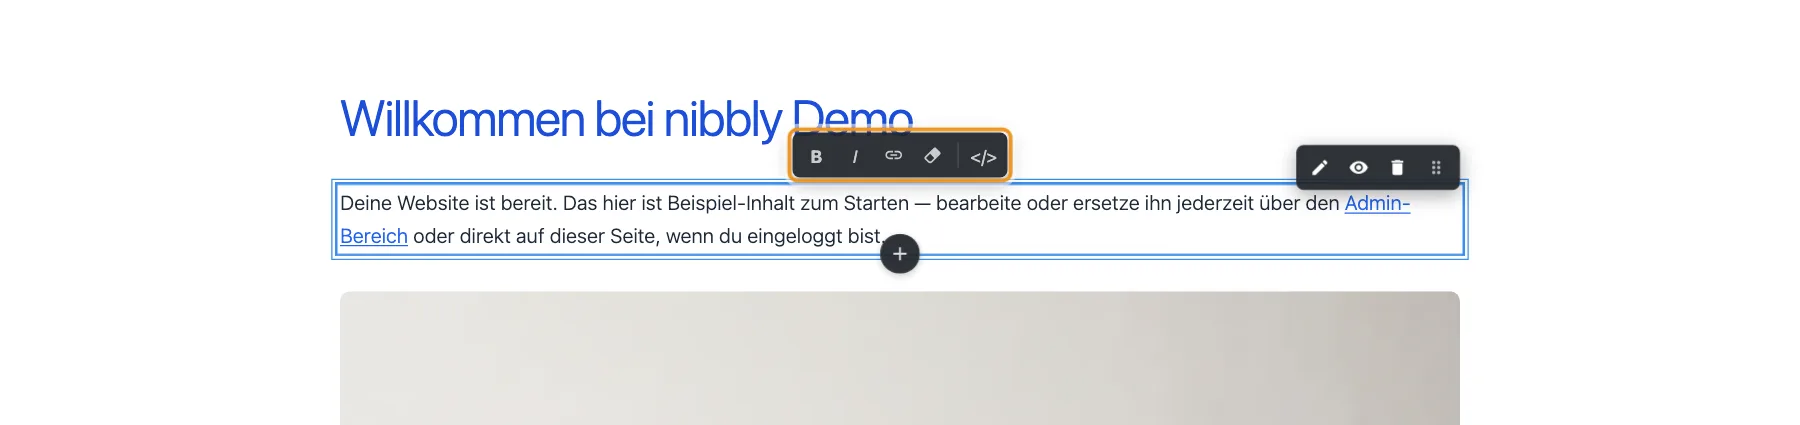
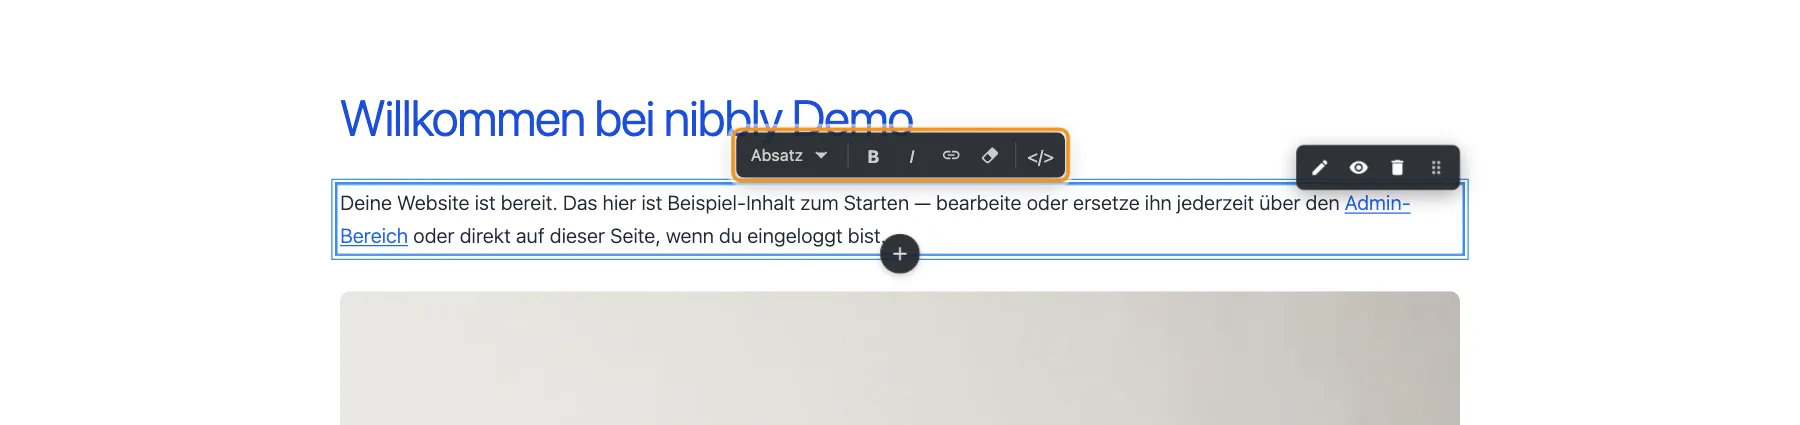
feat(editor): block format menu in the floating text toolbar
The toolbar of an inline-edited HTML field starts with a format menu
(Paragraph, Heading 2-4, Quote) that shows the element at the caret and
switches it via formatBlock. It is a custom dark menu because a native
<select> is painted by the browser and ignores the toolbar's colours.

Handbook chapter and toolbar screenshot updated in both languages.

Changed region(s): [[0.4044, 0.2753, 0.6222, 0.4588]]

diff --git a/js/inline-editor.js b/js/inline-editor.js
@@ -3643,7 +3643,11 @@
 
         const toolbar = document.createElement('div');
         toolbar.className = 'floating-toolbar';
+        const formats = [['p', t('format_paragraph')], ['h2', t('format_heading') + ' 2'], ['h3', t('format_heading') + ' 3'], ['h4', t('format_heading') + ' 4'], ['blockquote', t('format_quote')]];
         toolbar.innerHTML = `
+            <button type="button" class="floating-toolbar-format" data-action="format-menu" aria-haspopup="menu" aria-expanded="false" data-editor-tooltip="${escHtml(t('format_block'))}" aria-label="${escHtml(t('format_block'))}"><span class="floating-toolbar-format-label">${escHtml(formats[0][1])}</span><svg viewBox="0 0 24 24" width="12" height="12" fill="none" stroke="currentColor" stroke-width="2" stroke-linecap="round" stroke-linejoin="round" aria-hidden="true"><path d="M6 9l6 6 6-6"/></svg></button>
+            <div class="floating-toolbar-menu" role="menu" hidden>${formats.map(([v, l]) => `<button type="button" role="menuitemradio" aria-checked="false" data-format="${v}"><${v === 'blockquote' ? 'em' : v}>${escHtml(l)}</${v === 'blockquote' ? 'em' : v}></button>`).join('')}</div>
+            <span class="floating-toolbar-separator"></span>
             <button type="button" data-command="bold" data-editor-tooltip="${escHtml(t('bold'))} (Ctrl+B)" aria-label="${escHtml(t('bold'))} (Ctrl+B)"><b>B</b></button>
             <button type="button" data-command="italic" data-editor-tooltip="${escHtml(t('italic'))} (Ctrl+I)" aria-label="${escHtml(t('italic'))} (Ctrl+I)"><i>I</i></button>
             <button type="button" data-action="link" data-editor-tooltip="${escHtml(t('insert_link'))}" aria-label="${escHtml(t('insert_link'))}"><svg viewBox="0 0 24 24" fill="currentColor" width="16" height="16"><path d="M3.9 12c0-1.71 1.39-3.1 3.1-3.1h4V7H7c-2.76 0-5 2.24-5 5s2.24 5 5 5h4v-1.9H7c-1.71 0-3.1-1.39-3.1-3.1zM8 13h8v-2H8v2zm9-6h-4v1.9h4c1.71 0 3.1 1.39 3.1 3.1s-1.39 3.1-3.1 3.1h-4V17h4c2.76 0 5-2.24 5-5s-2.24-5-5-5z"/></svg></button>
@@ -3656,6 +3660,53 @@
         toolbar.addEventListener('mousedown', (e) => {
             e.preventDefault();
         });
+
+        // Block format (paragraph, heading, quote) of the element at the caret: own menu,
+        // because a native <select> is painted by the browser and ignores the dark toolbar
+        const formatButton = toolbar.querySelector('.floating-toolbar-format');
+        const formatLabel = toolbar.querySelector('.floating-toolbar-format-label');
+        const formatMenu = toolbar.querySelector('.floating-toolbar-menu');
+        let currentFormat = 'p';
+        const setFormatState = (value) => {
+            currentFormat = formats.some(([v]) => v === value) ? value : 'p';
+            formatLabel.textContent = formats.find(([v]) => v === currentFormat)[1];
+            formatMenu.querySelectorAll('[data-format]').forEach(item => item.setAttribute('aria-checked', String(item.dataset.format === currentFormat)));
+        };
+        const closeFormatMenu = () => {
+            formatMenu.hidden = true;
+            formatButton.setAttribute('aria-expanded', 'false');
+        };
+        document.addEventListener('selectionchange', () => {
+            if (!activeHtmlField) return;
+            const sel = window.getSelection();
+            if (!sel.rangeCount || !activeHtmlField.contains(sel.anchorNode)) return;
+            setFormatState(String(document.queryCommandValue('formatBlock') || '').replace(/[<>]/g, '').toLowerCase());
+        });
+        formatButton.addEventListener('click', (e) => {
+            e.preventDefault();
+            e.stopPropagation();
+            formatMenu.hidden = !formatMenu.hidden;
+            formatButton.setAttribute('aria-expanded', String(!formatMenu.hidden));
+        });
+        formatMenu.addEventListener('click', (e) => {
+            const item = e.target.closest('[data-format]');
+            if (!item) return;
+            e.preventDefault();
+            e.stopPropagation();
+            closeFormatMenu();
+            if (!activeHtmlField) return;
+            activeHtmlField.focus();
+            document.execCommand('formatBlock', false, '<' + item.dataset.format + '>');
+            setFormatState(item.dataset.format);
+            activeHtmlField.dispatchEvent(new Event('input', { bubbles: true }));
+        });
+        document.addEventListener('click', (e) => {
+            if (!formatMenu.hidden && !toolbar.contains(e.target)) closeFormatMenu();
+        }, true);
+        document.addEventListener('keydown', (e) => {
+            if (e.key === 'Escape' && !formatMenu.hidden) { e.stopPropagation(); closeFormatMenu(); }
+        }, true);
+        toolbar._closeFormatMenu = closeFormatMenu;
 
         // Handle button clicks
         toolbar.addEventListener('click', (e) => {
@@ -3748,6 +3799,7 @@
     function hideFloatingToolbar() {
         if (floatingToolbar) {
             floatingToolbar.style.display = 'none';
+            if (floatingToolbar._closeFormatMenu) floatingToolbar._closeFormatMenu();
         }
         if (activeHtmlField && activeHtmlField._scrollHandler) {
             window.removeEventListener('scroll', activeHtmlField._scrollHandler, true);

diff --git a/css/inline-editor.css b/css/inline-editor.css
@@ -1209,6 +1209,10 @@ dialog.editor-mode-hint .editor-btn:focus-visible { outline: 2px solid var(--edi
     }
 }
 
+.floating-toolbar [hidden] {
+    display: none !important;
+}
+
 .floating-toolbar button {
     position: relative;
     display: flex;
@@ -1290,6 +1294,64 @@ dialog.editor-mode-hint .editor-btn:focus-visible { outline: 2px solid var(--edi
     background: rgba(255, 255, 255, 0.15);
     margin: 0 4px;
 }
+
+.floating-toolbar button.floating-toolbar-format {
+    width: auto;
+    gap: 6px;
+    padding: 0 8px;
+    font-size: 13px;
+    white-space: nowrap;
+}
+
+.floating-toolbar-format[aria-expanded="true"] {
+    background: rgba(255, 255, 255, 0.15);
+    color: #fff;
+}
+
+.floating-toolbar-menu {
+    position: absolute;
+    top: calc(100% + 4px);
+    left: 0;
+    display: flex;
+    flex-direction: column;
+    min-width: 170px;
+    padding: 4px;
+    background: rgba(35, 40, 45, 0.97);
+    border-radius: 6px;
+    box-shadow: 0 4px 16px rgba(0, 0, 0, 0.35);
+}
+
+.floating-toolbar .floating-toolbar-menu button {
+    width: 100%;
+    height: auto;
+    justify-content: flex-start;
+    padding: 6px 10px;
+    text-align: left;
+    color: #ddd;
+}
+
+.floating-toolbar-menu button[aria-checked="true"] {
+    color: #fff;
+    background: rgba(255, 255, 255, 0.12);
+}
+
+.floating-toolbar-menu button h2,
+.floating-toolbar-menu button h3,
+.floating-toolbar-menu button h4,
+.floating-toolbar-menu button p,
+.floating-toolbar-menu button em {
+    margin: 0;
+    color: inherit;
+    font-family: inherit;
+    line-height: 1.2;
+}
+
+.floating-toolbar-menu button h2 { font-size: 17px; font-weight: 700; }
+.floating-toolbar-menu button h3 { font-size: 15px; font-weight: 700; }
+.floating-toolbar-menu button h4 { font-size: 14px; font-weight: 700; }
+.floating-toolbar-menu button p { font-size: 13px; }
+.floating-toolbar-menu button em { font-size: 13px; }
+
 
 /* ============================================================
    WYSIWYG TOOLBAR & EDITOR

diff --git a/includes/handbook/chapters/texts.de.php b/includes/handbook/chapters/texts.de.php
@@ -6,8 +6,9 @@
     <li><b>Fließtext</b> wie Absätze. Sobald du hineinklickst, erscheint darüber eine kleine Werkzeugleiste.</li>
   </ul>
 </div>
-<?php echo $hb->shot('text-toolbar.webp', 'Ein Absatz im Bearbeitungsmodus mit der Werkzeugleiste für Formatierung darüber', '<b>Werkzeugleiste für Fließtext.</b> Fett, Kursiv, Link, Formatierung entfernen und die HTML-Ansicht.'); ?>
+<?php echo $hb->shot('text-toolbar.webp', 'Ein Absatz im Bearbeitungsmodus mit der Werkzeugleiste für Formatierung darüber', '<b>Werkzeugleiste für Fließtext.</b> Absatzformat, Fett, Kursiv, Link, Formatierung entfernen und die HTML-Ansicht.'); ?>
 <dl class="hb-fields">
+  <div><dt>Absatz ▾</dt><dd>Das Absatzformat des Elements, in dem der Cursor steht: Absatz, Überschrift 2 bis 4 oder Zitat. Ein Klick öffnet die Auswahl, ein zweiter wechselt das Format nur für diesen Absatz.</dd></div>
   <div><dt>B / I</dt><dd>Fett und Kursiv für den markierten Text. Tastatur: <?php echo $hb->key('⌘ B', 'Strg B'); ?> und <?php echo $hb->key('⌘ I', 'Strg I'); ?>.</dd></div>
   <div><dt><?php echo $hb->icon('link', 'Link einfügen'); ?> Link einfügen</dt><dd>Erst ein Wort oder einen Satzteil markieren, dann klicken; ohne Markierung erscheint ein Hinweis. Du wählst eine Seite der Website oder trägst eine Adresse ein, siehe <?php echo $hb->ref('links'); ?>.</dd></div>
   <div><dt>Formatierung bereinigen</dt><dd>Entfernt Fett, Kursiv und andere Auszeichnungen aus dem markierten Text.</dd></div>

diff --git a/includes/handbook/chapters/texts.en.php b/includes/handbook/chapters/texts.en.php
@@ -6,8 +6,9 @@
     <li><b>Body text</b> such as paragraphs. As soon as you click into it, a small toolbar appears above it.</li>
   </ul>
 </div>
-<?php echo $hb->shot('text-toolbar.webp', 'A paragraph in edit mode with the formatting toolbar above it', '<b>Toolbar for body text.</b> Bold, italic, link, clean formatting and the HTML view.'); ?>
+<?php echo $hb->shot('text-toolbar.webp', 'A paragraph in edit mode with the formatting toolbar above it', '<b>Toolbar for body text.</b> Block format, bold, italic, link, clean formatting and the HTML view.'); ?>
 <dl class="hb-fields">
+  <div><dt>Paragraph ▾</dt><dd>The block format of the element at the caret: paragraph, heading 2 to 4 or quote. One click opens the list, a second one changes the format of that paragraph only.</dd></div>
   <div><dt>B / I</dt><dd>Bold and italic for the selected text. Keyboard: <?php echo $hb->key('⌘ B', 'Ctrl B'); ?> and <?php echo $hb->key('⌘ I', 'Ctrl I'); ?>.</dd></div>
   <div><dt><?php echo $hb->icon('link', 'Insert link'); ?> Insert link</dt><dd>Select a word or phrase first, then click; without a selection you get a hint. You pick a page of the website or enter an address, see <?php echo $hb->ref('links'); ?>.</dd></div>
   <div><dt>Clean formatting</dt><dd>Removes bold, italic and other markup from the selected text.</dd></div>

diff --git a/AI-AGENT-GUIDE.md b/AI-AGENT-GUIDE.md
@@ -1375,7 +1375,7 @@ editableListItems($page, $listKey)
 editableTextList($page, $listKey, $defaults = ['content' => ''])
 // Renders a list of editable HTML paragraphs with add/remove/reorder controls.
 // Each item is a single editableHtml() field. Admins get inline editing with
-// a floating toolbar (Bold, Italic, Link, Clean). Visitors see clean HTML.
+// a floating toolbar (block format, Bold, Italic, Link, Clean). Visitors see clean HTML.
 // JSON stores: {"0": {"content": "..."}, "1": {"content": "..."}}
 ```
 

diff --git a/CHANGELOG.md b/CHANGELOG.md
@@ -9,6 +9,12 @@ Git milestones and the gaps in publication records.
 
 ## [Unreleased]
 
+### Added
+
+- **Block format in the floating text toolbar.** The toolbar of an inline-edited HTML field starts
+  with a format menu (Paragraph, Heading 2–4, Quote) that shows the element at the caret and
+  switches it; it is a custom dark menu, since a native `<select>` is painted by the browser.
+
 ## [2.7.0] — 2026-10-30
 
 ### Added
